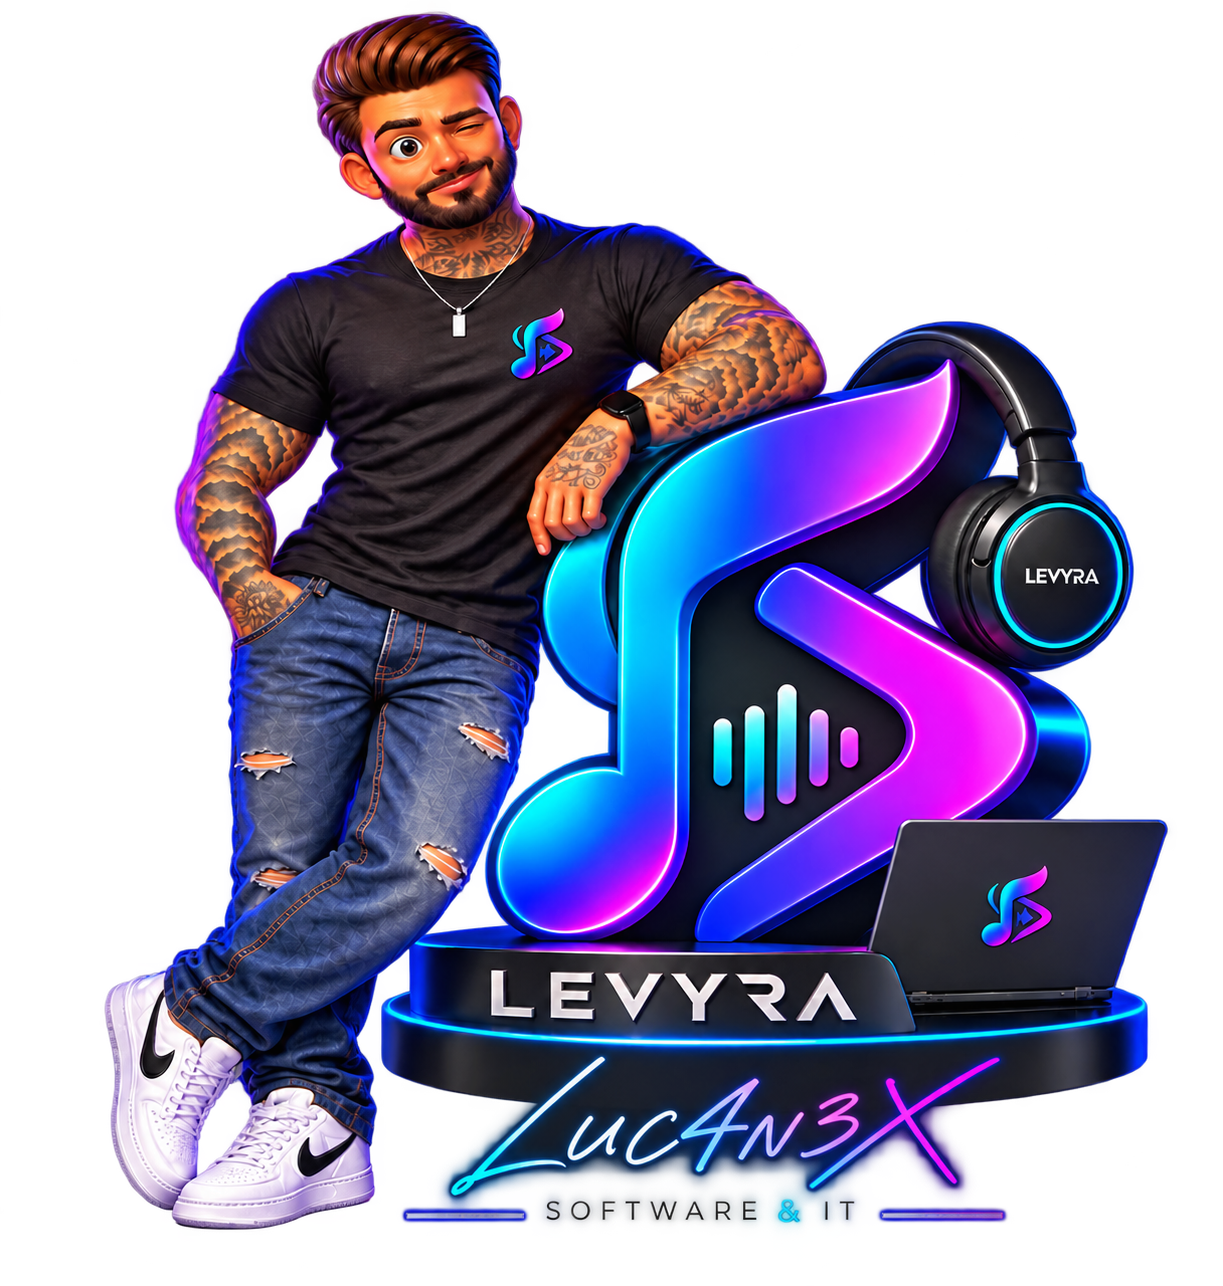
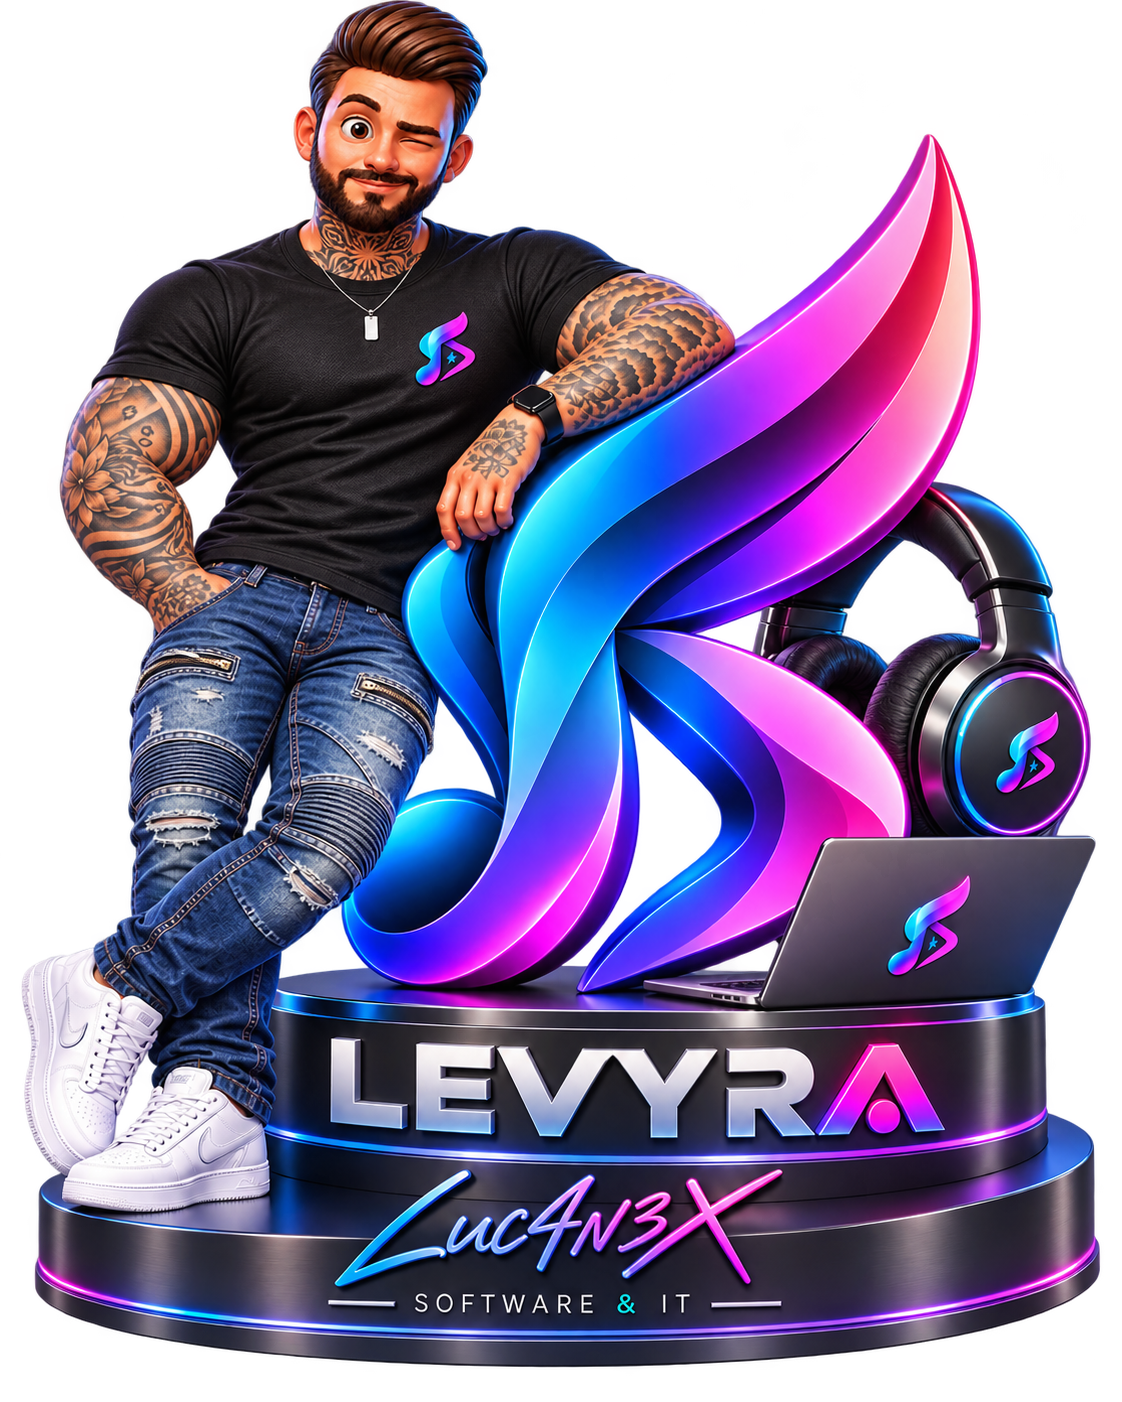
docs(readme): update author mascot image with 3D Neon Tech artwork

diff --git a/README.md b/README.md
@@ -219,7 +219,7 @@ Contributions and bug reports are welcome. Technical documentation and architect
 <div align="center">
 
 <a href="https://luc4n3x.pages.dev/">
-  <img src="docs/assets/levyra-signature.png" width="205" alt="LUC4N3X">
+  <img src="docs/assets/levyra-signature.png?v=neon-tech" width="205" alt="LUC4N3X">
 </a>
 
 ### LUC4N3X · Creator & Maintainer
